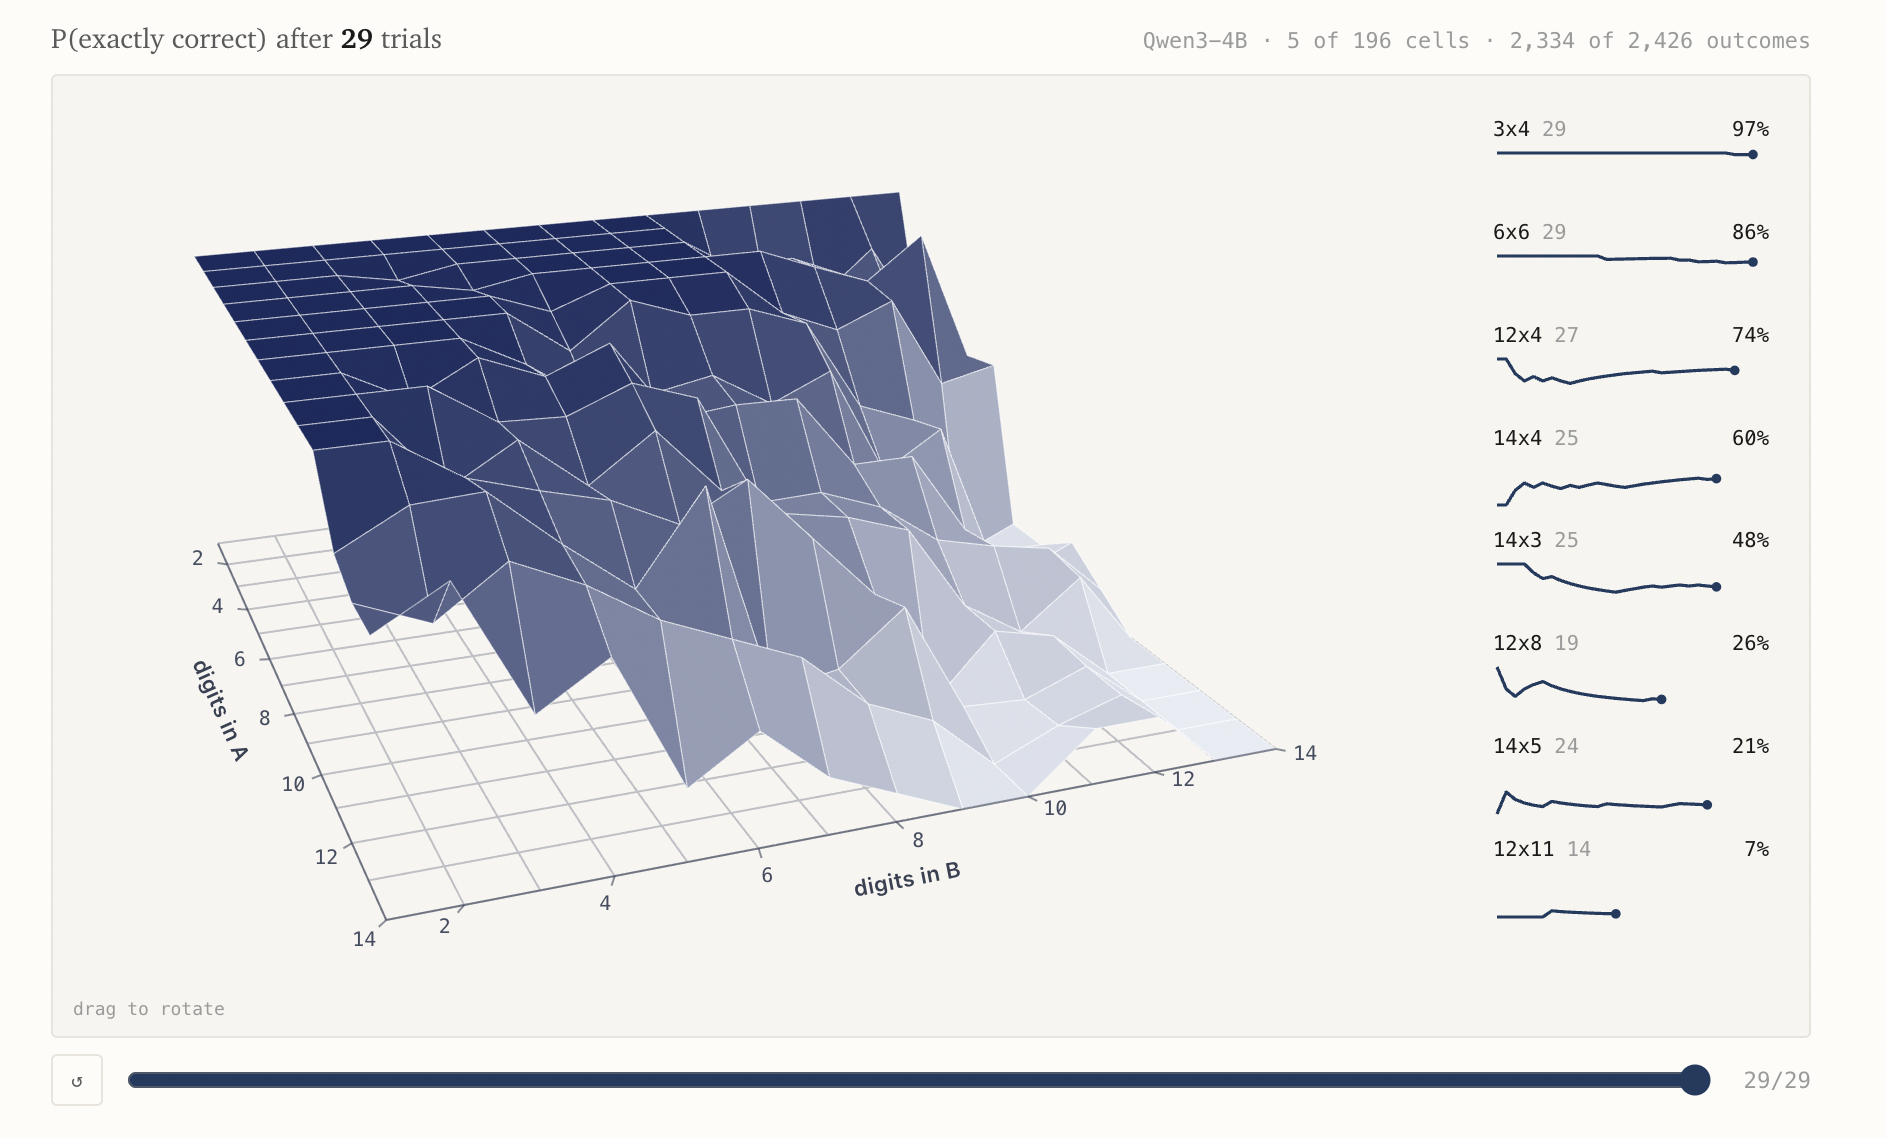
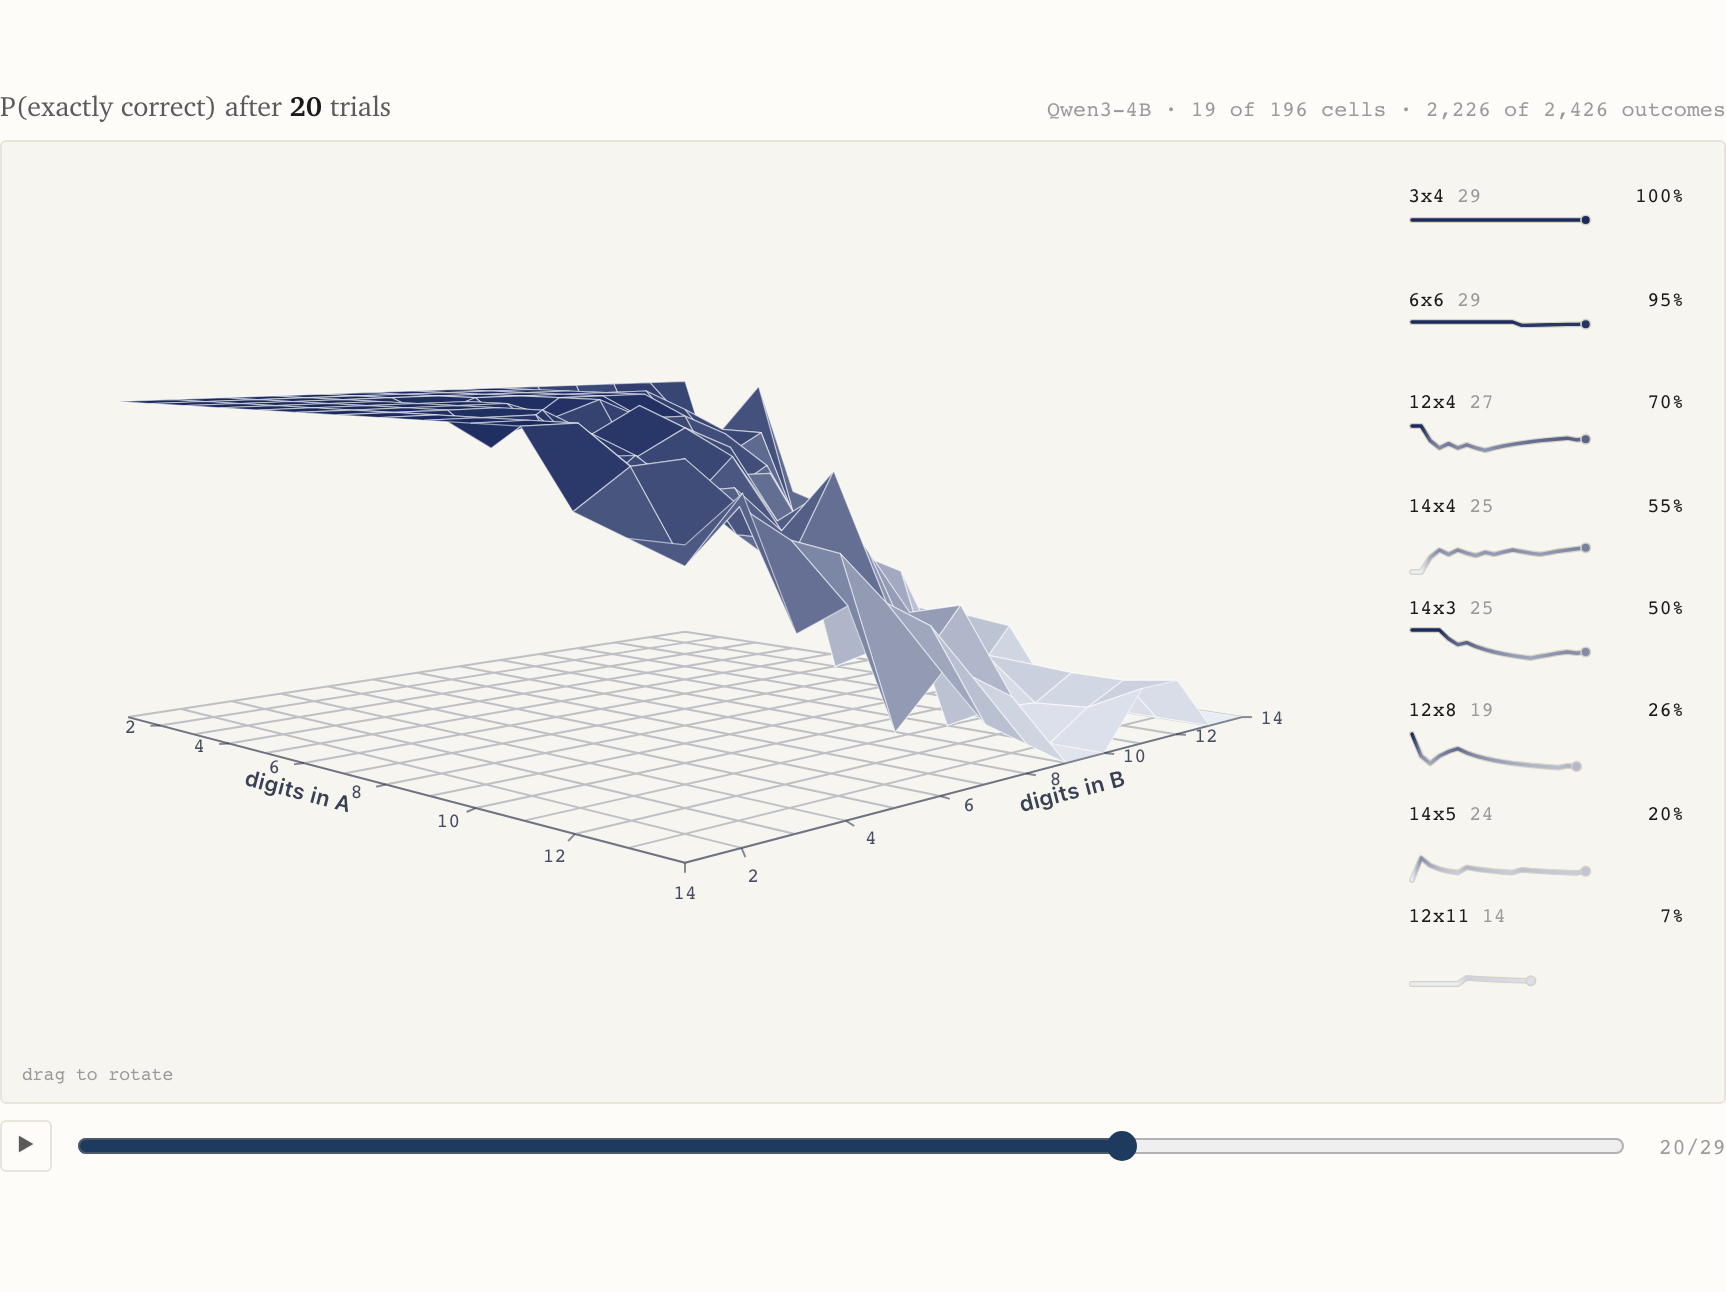
Lead with the claim, and make the card regenerable
The description said what was measured. It now says what the page argues:
reasoning models map cleanly onto Boyd's law of iteration, and this measures
where that loop stops being reliable. Same text in the meta description, the og
and twitter tags, and the card image, because they are read in different places
by people who will not see the other two.

The card's source image was a screenshot somebody took by hand and committed,
which meant nothing could notice when it went stale. It had: the rail was
recoloured from flat navy to the surface's own ramp in 50ae468, and the card
kept advertising sparklines the page no longer draws. scripts/build-og-source.mjs
now takes that screenshot from the preview build at trial 20, so the card shows
what ships and `npm run og` rebuilds both halves.

diff --git a/blog/index.html b/blog/index.html
@@ -5,7 +5,7 @@
     <meta name="viewport" content="width=device-width, initial-scale=1" />
     <link rel="icon" href="./favicon.svg" />
     <title>Model Reasoning Mapped to an OODA Loop</title>
-    <meta name="description" content="Two reasoning models from different companies, measured on 7,554 long multiplications, to find where each stops being reliable and whether they stop in the same places." />
+    <meta name="description" content="Reasoning models map cleanly onto Boyd's law of iteration. Two of them, from different companies, measured on 7,554 long multiplications to find where that loop stops being reliable." />
 
     <!-- ---- THE CARD THAT SHOWS WHEN THIS IS PASTED SOMEWHERE --------------
          Facebook, iMessage, Slack and the rest read these, and every one of
@@ -22,7 +22,7 @@
     <meta property="og:site_name" content="adamsohn.com" />
     <meta property="og:url" content="https://adamsohn.com/reasoning-grid/" />
     <meta property="og:title" content="Model Reasoning Mapped to an OODA Loop" />
-    <meta property="og:description" content="Two reasoning models from different companies, measured to find where each stops being reliable." />
+    <meta property="og:description" content="Reasoning models map cleanly onto Boyd's law of iteration. This measures where that loop stops being reliable." />
     <meta property="og:image" content="https://adamsohn.com/reasoning-grid/og.png" />
     <meta property="og:image:width" content="2400" />
     <meta property="og:image:height" content="1260" />
@@ -30,7 +30,7 @@
 
     <meta name="twitter:card" content="summary_large_image" />
     <meta name="twitter:title" content="Model Reasoning Mapped to an OODA Loop" />
-    <meta name="twitter:description" content="Two reasoning models from different companies, measured to find where each stops being reliable." />
+    <meta name="twitter:description" content="Reasoning models map cleanly onto Boyd's law of iteration. This measures where that loop stops being reliable." />
     <meta name="twitter:image" content="https://adamsohn.com/reasoning-grid/og.png" />
 
     <!-- WITHOUT JAVASCRIPT, GIVE THE SPACE BACK.
